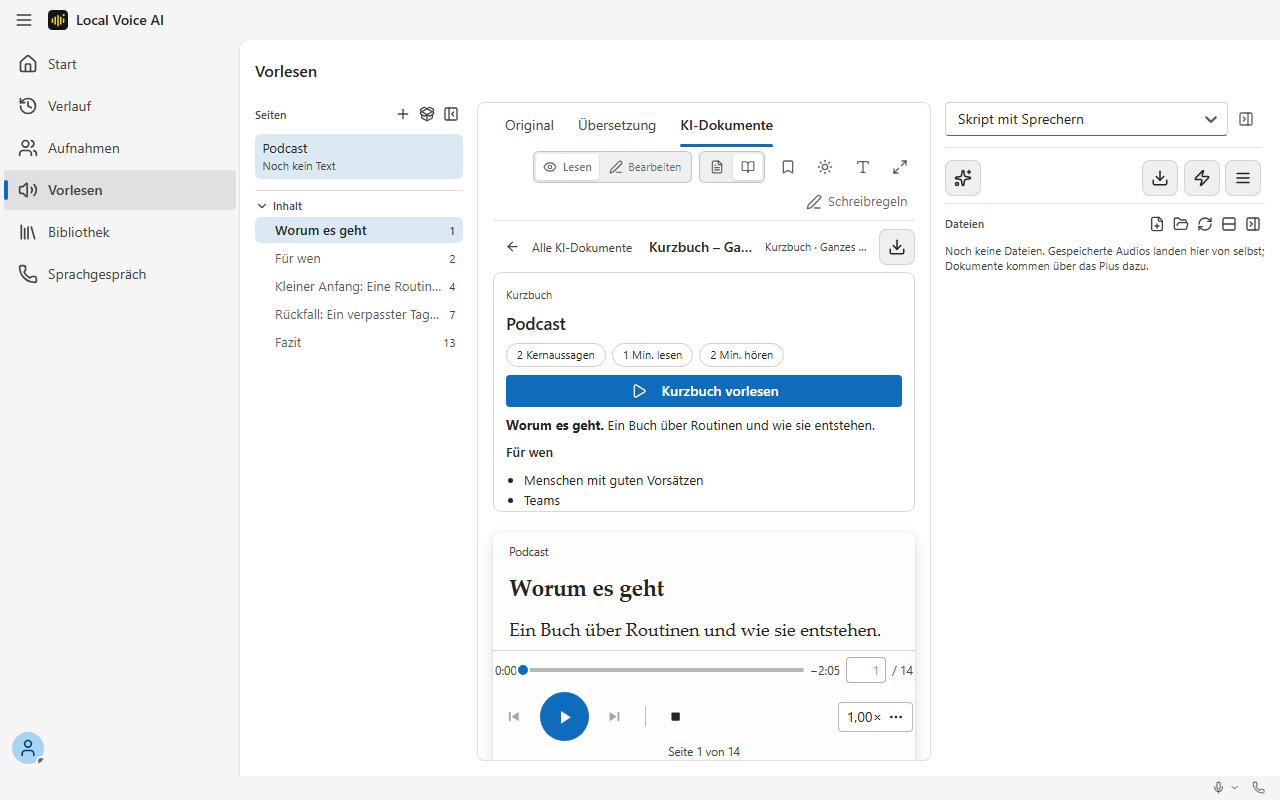
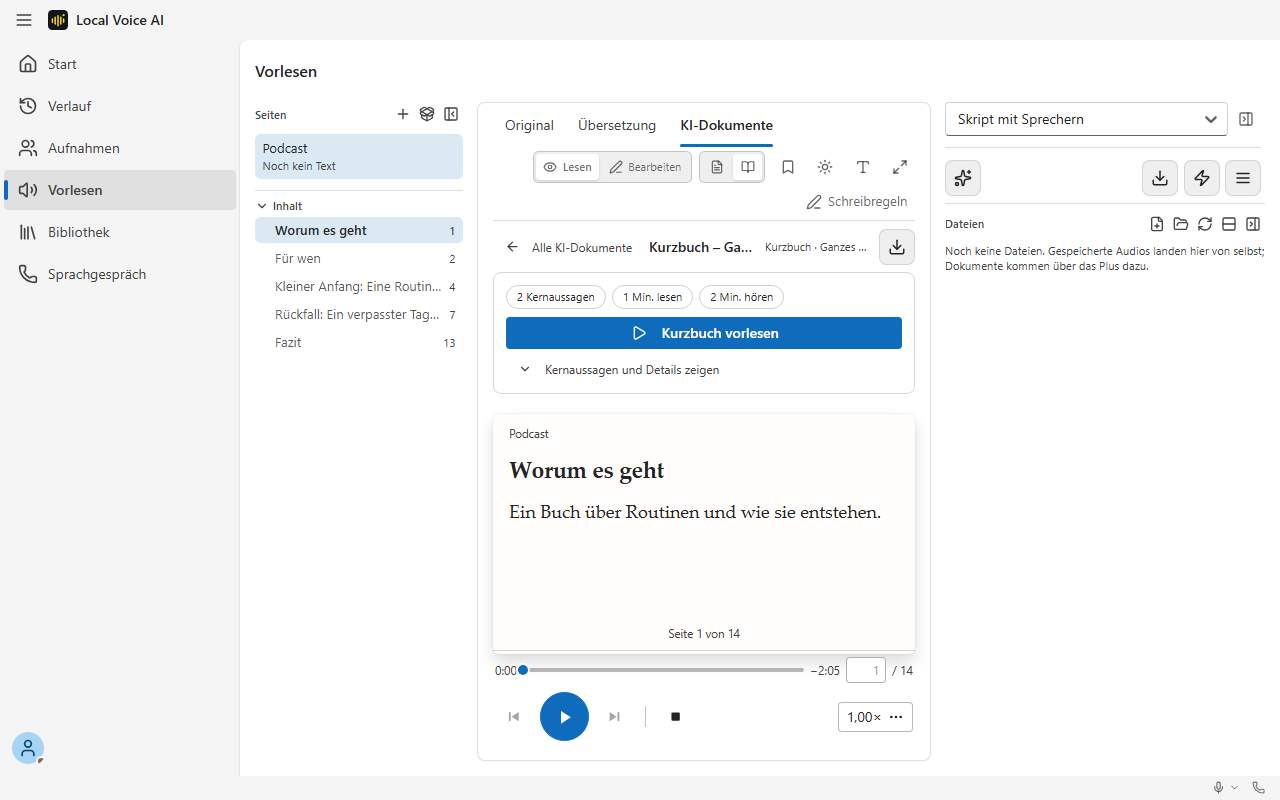
fix(buch-ki): Review- und Abnahme-Runde Kurzbuch (#205)
- Verdichtete Gruppen im Cache: auch lange Bücher setzen nach Abbruch fort.
- Leere Kernaussage: einmal neu fragen, sonst klarer Fehler; nur echte
  Markdown-Überschriften entfernen, Titelmarker schonender säubern.
- Schmale Ansicht (Codex): Überblick zugeklappt über dem Text, aufklappbar.

diff --git a/apps/local-voice/src/components/settings/tts/kidocs/KurzbuchPanel.tsx b/apps/local-voice/src/components/settings/tts/kidocs/KurzbuchPanel.tsx
@@ -1,6 +1,6 @@
-import { useEffect, useRef, useState } from "react";
+import { useEffect, useId, useRef, useState } from "react";
 import { useTranslation } from "react-i18next";
-import { Check, Pause, Play } from "lucide-react";
+import { Check, ChevronDown, ChevronUp, Pause, Play } from "lucide-react";
 import { Button } from "../../../ui/Button";
 import {
   LISTEN_WPM,
@@ -46,6 +46,8 @@ export function KurzbuchPanel({
   const { t } = useTranslation();
   const [heard, setHeard] = useState(() => loadHeard(pageId, docId));
   const entered = useRef(new Set<string>());
+  const [open, setOpen] = useState(false);
+  const moreId = useId();
   useEffect(() => {
     setHeard(loadHeard(pageId, docId));
     entered.current = new Set();
@@ -65,7 +67,10 @@ export function KurzbuchPanel({
     kb.ideas.findIndex((s) => !heard.has(s.id)) + 1 || kb.ideas.length;
 
   return (
-    <aside className="kurzbuch__panel" aria-label={t("tts.kurzbuch.overview")}>
+    <aside
+      className={`kurzbuch__panel${open ? " kurzbuch__panel--open" : ""}`}
+      aria-label={t("tts.kurzbuch.overview")}
+    >
       <div className="kidocs__meta">{t("tts.kurzbuch.kind")}</div>
       <h2 className="kurzbuch__title">{title}</h2>
       <div className="kurzbuch__facts">
@@ -91,67 +96,81 @@ export function KurzbuchPanel({
             ? t("tts.kurzbuch.resumeAt", { n: nextUp })
             : t("tts.kurzbuch.start")}
       </Button>
-      {kb.about && (
-        <p className="kurzbuch__about">
-          <b>{t("tts.kurzbuch.about")}</b> {kb.about}
-        </p>
-      )}
-      {kb.audience.length > 0 && (
-        <>
-          <div className="kurzbuch__label">{t("tts.kurzbuch.audience")}</div>
-          <ul className="kurzbuch__who">
-            {kb.audience.map((a) => (
-              <li key={a}>{a}</li>
-            ))}
-          </ul>
-        </>
-      )}
-      <ol className="kurzbuch__toc" aria-label={t("tts.kurzbuch.list")}>
-        {sections.map((s, i) => {
-          const isIdea = i < kb.ideas.length;
-          const on = active?.id === s.id;
-          const done = heard.has(s.id);
-          const label = isIdea
-            ? t("tts.kurzbuch.ideaN", { n: i + 1, total: kb.ideas.length })
-            : s.title;
-          return (
-            <li
-              key={s.id + i}
-              className={`kurzbuch__item${on ? " kurzbuch__item--on" : ""}`}
-              aria-current={on ? "true" : undefined}
-            >
-              <span className="kurzbuch__num" aria-hidden="true">
-                {isIdea ? i + 1 : ""}
-                {done && <Check size={12} className="kurzbuch__done" />}
-              </span>
-              <span className="kurzbuch__text">
-                {done && (
-                  <span className="sr-only">{t("tts.kurzbuch.heard")} </span>
-                )}
-                {s.keyword ? (
-                  <>
-                    <b>{s.keyword}:</b> {s.statement}
-                  </>
-                ) : (
-                  <b>{s.statement}</b>
-                )}
-              </span>
-              <Button
-                variant="ghost"
-                size="sm"
-                icon={on ? <Pause size={14} /> : <Play size={14} />}
-                aria-label={
-                  on
-                    ? t("tts.kurzbuch.pauseItem", { item: label })
-                    : t("tts.kurzbuch.playItem", { item: label })
-                }
-                title={on ? t("tts.kurzbuch.pause") : t("tts.kurzbuch.play")}
-                onClick={() => (on ? onStop() : onPlayFrom(s.start))}
-              />
-            </li>
-          );
-        })}
-      </ol>
+      {/* Schmal (über dem Text) zugeklappt, damit der Lesetext Platz behält. */}
+      <Button
+        variant="ghost"
+        size="sm"
+        className="kurzbuch__toggle"
+        aria-expanded={open}
+        aria-controls={moreId}
+        icon={open ? <ChevronUp size={14} /> : <ChevronDown size={14} />}
+        onClick={() => setOpen((o) => !o)}
+      >
+        {open ? t("tts.kurzbuch.less") : t("tts.kurzbuch.more")}
+      </Button>
+      <div className="kurzbuch__more" id={moreId}>
+        {kb.about && (
+          <p className="kurzbuch__about">
+            <b>{t("tts.kurzbuch.about")}</b> {kb.about}
+          </p>
+        )}
+        {kb.audience.length > 0 && (
+          <>
+            <div className="kurzbuch__label">{t("tts.kurzbuch.audience")}</div>
+            <ul className="kurzbuch__who">
+              {kb.audience.map((a) => (
+                <li key={a}>{a}</li>
+              ))}
+            </ul>
+          </>
+        )}
+        <ol className="kurzbuch__toc" aria-label={t("tts.kurzbuch.list")}>
+          {sections.map((s, i) => {
+            const isIdea = i < kb.ideas.length;
+            const on = active?.id === s.id;
+            const done = heard.has(s.id);
+            const label = isIdea
+              ? t("tts.kurzbuch.ideaN", { n: i + 1, total: kb.ideas.length })
+              : s.title;
+            return (
+              <li
+                key={s.id + i}
+                className={`kurzbuch__item${on ? " kurzbuch__item--on" : ""}`}
+                aria-current={on ? "true" : undefined}
+              >
+                <span className="kurzbuch__num" aria-hidden="true">
+                  {isIdea ? i + 1 : ""}
+                  {done && <Check size={12} className="kurzbuch__done" />}
+                </span>
+                <span className="kurzbuch__text">
+                  {done && (
+                    <span className="sr-only">{t("tts.kurzbuch.heard")} </span>
+                  )}
+                  {s.keyword ? (
+                    <>
+                      <b>{s.keyword}:</b> {s.statement}
+                    </>
+                  ) : (
+                    <b>{s.statement}</b>
+                  )}
+                </span>
+                <Button
+                  variant="ghost"
+                  size="sm"
+                  icon={on ? <Pause size={14} /> : <Play size={14} />}
+                  aria-label={
+                    on
+                      ? t("tts.kurzbuch.pauseItem", { item: label })
+                      : t("tts.kurzbuch.playItem", { item: label })
+                  }
+                  title={on ? t("tts.kurzbuch.pause") : t("tts.kurzbuch.play")}
+                  onClick={() => (on ? onStop() : onPlayFrom(s.start))}
+                />
+              </li>
+            );
+          })}
+        </ol>
+      </div>
     </aside>
   );
 }

diff --git a/apps/local-voice/tests/readaloud-translate.spec.ts b/apps/local-voice/tests/readaloud-translate.spec.ts
@@ -620,12 +620,20 @@ test("ein Kurzbuch zeigt Überblick und Kernaussagen und liest ab einer Kernauss
   await page.screenshot({
     path: "docs/vorschau/buch-ki-b7/03-app-kurzbuch.png",
   });
-  // Schmaler Bereich (Seiten- und Werkzeugspalte offen): Überblick darüber.
+  // Schmaler Bereich (Seiten- und Werkzeugspalte offen): Überblick darüber,
+  // zugeklappt, damit der Lesetext Platz behält.
   await page.setViewportSize({ width: 1280, height: 800 });
   await expect(panel).toBeVisible();
+  const toggle = panel.getByRole("button", {
+    name: "Kernaussagen und Details zeigen",
+  });
+  await expect(toggle).toHaveAttribute("aria-expanded", "false");
+  await expect(panel.getByRole("list", { name: "Kernaussagen" })).toBeHidden();
   await page.screenshot({
     path: "docs/vorschau/buch-ki-b7/04-app-kurzbuch-schmal.png",
   });
+  await toggle.click();
+  await expect(panel.getByRole("list", { name: "Kernaussagen" })).toBeVisible();
   const before = (await calls(page)).length;
   await panel
     .getByRole("button", { name: "Kernaussage 2 von 2 vorlesen" })

diff --git a/apps/local-voice/src/components/settings/tts/kidocs/kidocs.css b/apps/local-voice/src/components/settings/tts/kidocs/kidocs.css
@@ -325,8 +325,27 @@
     grid-template-rows: auto minmax(0, 1fr);
   }
   .kurzbuch__panel {
-    max-height: min(16rem, 35vh);
+    max-height: min(22rem, 45vh);
   }
+  .kurzbuch__panel .kidocs__meta,
+  .kurzbuch__title {
+    display: none;
+  }
+  .kurzbuch__panel .kurzbuch__toggle {
+    display: inline-flex;
+    align-self: flex-start;
+  }
+  .kurzbuch__panel:not(.kurzbuch__panel--open) .kurzbuch__more {
+    display: none;
+  }
+}
+.kurzbuch__toggle {
+  display: none;
+}
+.kurzbuch__more {
+  display: flex;
+  flex-direction: column;
+  gap: 8px;
 }
 .kurzbuch__panel > * {
   flex-shrink: 0;

diff --git a/apps/local-voice/src/components/settings/tts/kidocs/kiDocs.ts b/apps/local-voice/src/components/settings/tts/kidocs/kiDocs.ts
@@ -60,6 +60,7 @@ export function kiErrorText(code: string, t: TFunction): string {
     "book_ai:empty_source": "tts.kiDocs.errors.empty",
     "book_ai:cancelled": "tts.kiDocs.errors.cancelled",
     "book_ai:outline_unreadable": "tts.kiDocs.errors.outlineUnreadable",
+    "book_ai:empty_answer": "tts.kiDocs.errors.emptyAnswer",
   };
   const key = known[code];
   return key ? t(key) : t("tts.kiDocs.errors.generic", { code });

diff --git a/apps/local-voice/src-tauri/src/book_ai/kurzbuch.rs b/apps/local-voice/src-tauri/src/book_ai/kurzbuch.rs
@@ -34,6 +34,8 @@ pub const HEAD_AUDIENCE: &str = "Für wen";
 pub const HEAD_CONCLUSION: &str = "Fazit";
 /// Gliederung auch nach zwei Versuchen nicht lesbar.
 pub const OUTLINE_UNREADABLE: &str = "book_ai:outline_unreadable";
+/// Das Modell hat für eine Kernaussage zweimal keinen Text geliefert.
+pub const EMPTY_ANSWER: &str = "book_ai:empty_answer";
 
 /// Ändern sich die Prompts, gelten die alten Cache-Einträge nicht mehr.
 const VERSION: &str = "kurzbuch-v1";
@@ -140,8 +142,16 @@ pub fn outline_prompt(parts: &[Part], suggested: usize, full_text: bool, languag
 
 fn one_line(s: &str) -> String {
     let s = s.split_whitespace().collect::<Vec<_>>().join(" ");
-    let s = s.trim_start_matches(['#', '*', '-', ' ']).trim();
-    let s = s.trim_matches('*').trim();
+    // Nur Markdown-Marker (mit Leerzeichen danach) und Fettdruck entfernen,
+    // nicht etwa das Minus von „-5 Grad“.
+    let s = s.trim_start_matches('#').trim_start();
+    let s = s
+        .strip_prefix("- ")
+        .or_else(|| s.strip_prefix("* "))
+        .unwrap_or(s)
+        .trim();
+    let s = s.strip_prefix("**").unwrap_or(s);
+    let s = s.strip_suffix("**").unwrap_or(s).trim();
     if s.chars().count() <= MAX_TITLE_CHARS {
         return s.to_string();
     }
@@ -282,8 +292,13 @@ pub fn conclusion_prompt(about: &str, ideas: &[(String, String)], language: &str
 /// Modelltext ohne Überschriftenzeilen, damit die Gliederung des Kurzbuchs
 /// eindeutig bleibt.
 pub fn clean_body(text: &str) -> String {
+    let heading = |l: &str| {
+        let l = l.trim_start();
+        let hashes = l.chars().take_while(|c| *c == '#').count();
+        (1..=6).contains(&hashes) && l[hashes..].starts_with([' ', '\t'])
+    };
     text.lines()
-        .filter(|l| !l.trim_start().starts_with('#'))
+        .filter(|l| !heading(l))
         .collect::<Vec<_>>()
         .join("\n")
         .trim()
@@ -374,7 +389,17 @@ where
         )
         .await?
     };
-    let overview = condense(detail.clone(), limit, language, &ask, &mut steps, cancel).await?;
+    let overview = condense(
+        detail.clone(),
+        limit,
+        model_key,
+        language,
+        cache,
+        &ask,
+        &mut steps,
+        cancel,
+    )
+    .await?;
     if size(&overview) > limit {
         return Err(TOO_LONG.into());
     }
@@ -416,7 +441,18 @@ where
             language,
         );
         let ikey = key(&[model_key, "idea", &prompt]);
-        let body = clean_body(&cached(cache, &ikey, &ask, prompt).await?);
+        // Leere Antwort (nur Überschriften): einmal ohne Cache neu fragen,
+        // dann klarer Fehler statt einer leeren Kernaussage.
+        let mut body = clean_body(&cached(cache, &ikey, &ask, prompt.clone()).await?);
+        if body.is_empty() {
+            check(cancel)?;
+            let again = ask(prompt).await?;
+            body = clean_body(&again);
+            if body.is_empty() {
+                return Err(EMPTY_ANSWER.into());
+            }
+            cache.put(&ikey, &again);
+        }
         check(cancel)?;
         bodies.push(body);
         steps.step();
@@ -503,6 +539,9 @@ mod tests {
         assert!(md.contains("## Rückfall: Nie zweimal.\n\nDrei."));
         assert!(md.ends_with("## Fazit\n\nEnde.\n"));
         assert_eq!(clean_body("# Titel\nText\n## Zwischen\nmehr"), "Text\nmehr");
+        assert_eq!(clean_body("#1 der Liste"), "#1 der Liste");
+        assert_eq!(one_line("- -5 Grad: Kälte hilft."), "-5 Grad: Kälte hilft.");
+        assert_eq!(one_line("## **Anfang: Klein.**"), "Anfang: Klein.");
     }
 
     fn fake(

diff --git a/apps/local-voice/src-tauri/src/book_ai/engine.rs b/apps/local-voice/src-tauri/src/book_ai/engine.rs
@@ -352,11 +352,15 @@ where
 
 /// Teile in Gruppen verdichten, bis sie zusammen in `limit` passen (oder
 /// nichts mehr zu bündeln ist). Gruppen mit halbem Limit, damit jede Runde
-/// die Zahl der Teile wirklich senkt.
+/// die Zahl der Teile wirklich senkt. Verdichtete Gruppen liegen im Cache:
+/// Ein zweiter Lauf bekommt denselben Text und damit dieselben Folgeschritte.
+#[allow(clippy::too_many_arguments)]
 pub async fn condense<F, Fut>(
     mut parts: Vec<Part>,
     limit: usize,
+    model_key: &str,
     language: &str,
+    cache: &DigestCache,
     ask: &F,
     steps: &mut Steps<'_>,
     cancel: &AtomicBool,
@@ -388,7 +392,18 @@ where
             } else {
                 Part {
                     label: format!("{} – {}", first.label, last.label),
-                    text: ask(condense_prompt(&pairs(&g), language)).await?,
+                    text: {
+                        let prompt = condense_prompt(&pairs(&g), language);
+                        let key = DigestCache::key(model_key, "condense", &prompt, 0);
+                        match cache.get(&key) {
+                            Some(hit) => hit,
+                            None => {
+                                let out = ask(prompt).await?;
+                                cache.put(&key, &out);
+                                out
+                            }
+                        }
+                    },
                     chapters,
                 }
             };
@@ -443,7 +458,10 @@ where
         &chapters, jobs, model_key, language, cache, &ask, &mut steps, cancel,
     )
     .await?;
-    let parts = condense(digests, limit, language, &ask, &mut steps, cancel).await?;
+    let parts = condense(
+        digests, limit, model_key, language, cache, &ask, &mut steps, cancel,
+    )
+    .await?;
     if size(&parts) > limit {
         // Lieber ein klarer Fehler als ein still abgeschnittener Prompt.
         return Err(TOO_LONG.into());
